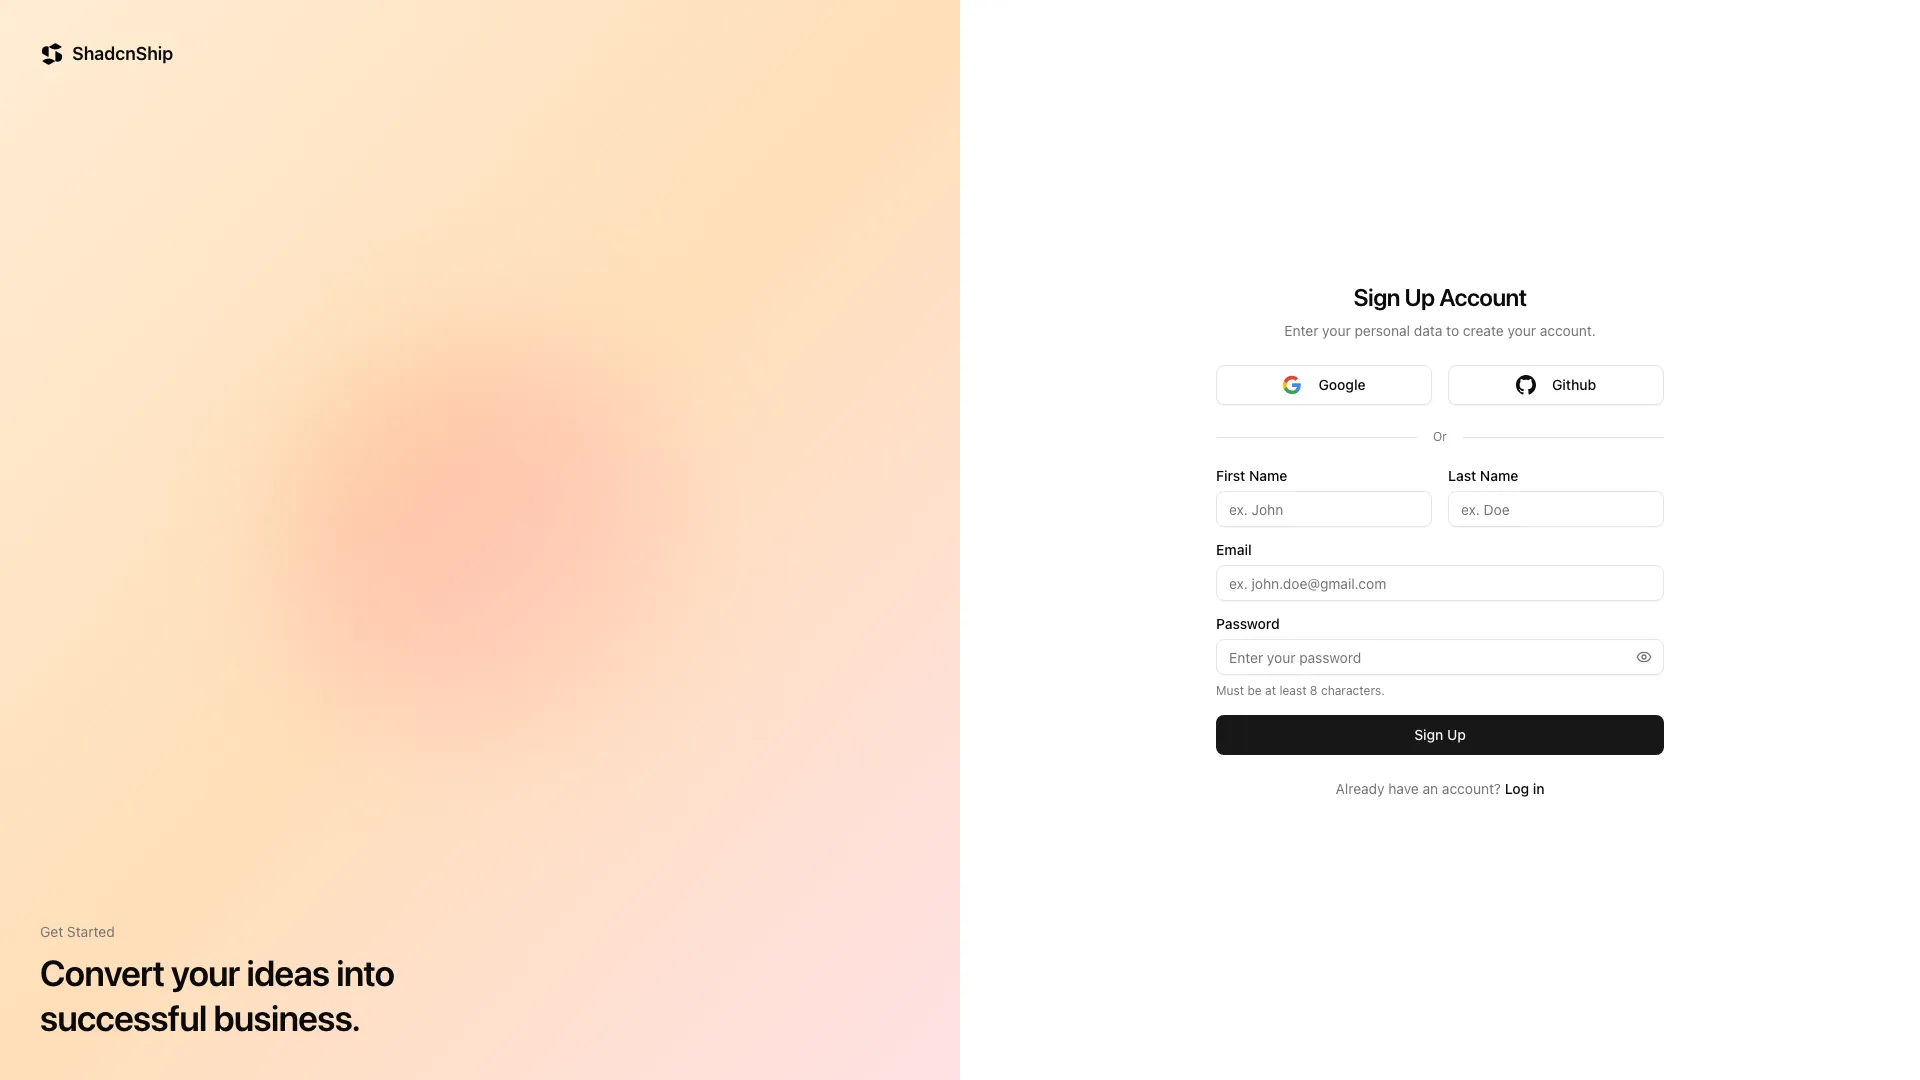
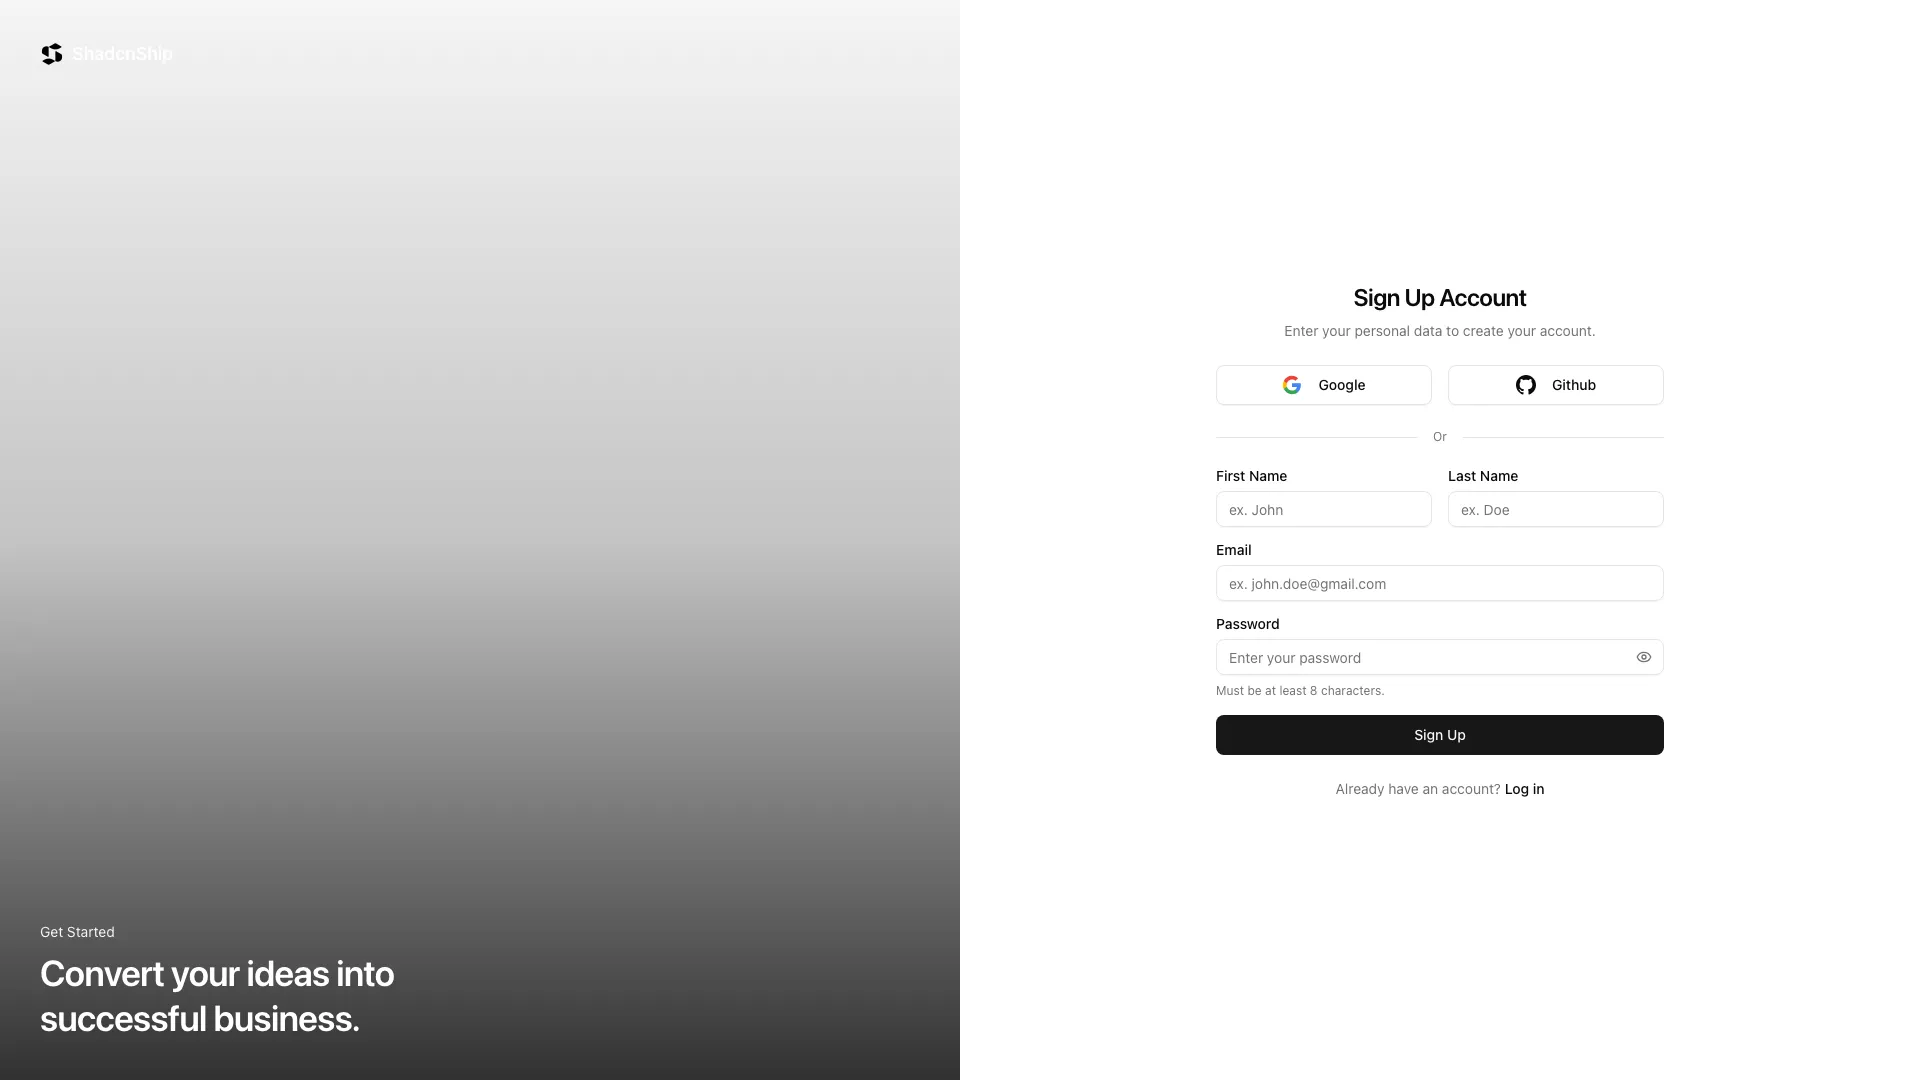
feat: add testimonial-02 & some fix

diff --git a/src/registry/blocks/testimonial-02/testimonial.tsx b/src/registry/blocks/testimonial-02/testimonial.tsx
@@ -1,0 +1,250 @@
+import { cn } from "@/lib/utils";
+import { Card, CardContent } from "@/components/ui/card";
+import { Avatar, AvatarFallback, AvatarImage } from "@/components/ui/avatar";
+import { Button } from "@/components/ui/button";
+import { Star } from "lucide-react";
+import { QuoteIcon } from "@/components/social-icons";
+
+interface Testimonial {
+  type: "text" | "image" | "cta";
+  image?: string;
+  title?: string;
+  content?: string;
+  author?: {
+    name: string;
+    avatar?: string;
+  };
+  rating?: number;
+  button?: { text: string; url: string };
+}
+
+interface Testimonial02Props {
+  tagline?: string;
+  heading?: string;
+  description?: string;
+  testimonials?: Testimonial[];
+  className?: string;
+}
+
+const StarRating = ({ rating = 5 }: { rating?: number }) => (
+  <div className="flex gap-0.5">
+    {Array.from({ length: rating }).map((_, i) => (
+      <Star key={i} className="size-3.5 fill-yellow-400 text-yellow-400" />
+    ))}
+  </div>
+);
+
+const TestimonialCard = ({ testimonial }: { testimonial: Testimonial }) => {
+  if (testimonial.type === "cta") {
+    return (
+      <Card className="bg-primary text-primary-foreground h-full shadow-none ">
+        <CardContent className="flex h-full flex-col p-6">
+          <h3 className="text-xl font-semibold">{testimonial.title}</h3>
+          <p className="mt-2 flex-1 text-sm opacity-90">
+            {testimonial.content}
+          </p>
+          <Button variant="secondary" className="mt-4 w-full" asChild>
+            <a href={testimonial.button?.url || "#"}>
+              {testimonial.button?.text}
+            </a>
+          </Button>
+        </CardContent>
+      </Card>
+    );
+  }
+
+  if (testimonial.type === "image") {
+    return (
+      <Card className="h-full shadow-none py-0">
+        <div className="aspect-3/4 w-full overflow-hidden rounded-xl bg-muted h-full">
+          {testimonial.image && (
+            <img
+              src={testimonial.image}
+              alt=""
+              className="size-full object-cover aspect-3/4 h-full"
+            />
+          )}
+        </div>
+      </Card>
+    );
+  }
+
+  return (
+    <Card className="h-full shadow-none p-4">
+      <CardContent className="flex h-full flex-col justify-between gap-12 p-0 ">
+        <div className="space-y-2">
+          <QuoteIcon className="size-4 dark:invert" />
+          {testimonial.title && (
+            <h4 className="text-2xl leading-tight">{testimonial.title}</h4>
+          )}
+        </div>
+        <div>
+          {testimonial.content && (
+            <p className="mt-3 flex-1  text-muted-foreground">
+              {testimonial.content}
+            </p>
+          )}
+          {testimonial.author && (
+            <div className="mt-4 flex items-center gap-3">
+              <Avatar className="size-8">
+                <AvatarImage
+                  src={testimonial.author.avatar}
+                  alt={testimonial.author.name}
+                  className="object-cover"
+                />
+                <AvatarFallback>
+                  {testimonial.author.name
+                    .split(" ")
+                    .map((n) => n[0])
+                    .join("")}
+                </AvatarFallback>
+              </Avatar>
+              <div className="flex flex-col gap-1">
+                <StarRating rating={testimonial.rating} />
+                <span className="text-sm font-medium text-muted-foreground">
+                  {testimonial.author.name}
+                </span>
+              </div>
+            </div>
+          )}
+        </div>
+      </CardContent>
+    </Card>
+  );
+};
+
+const Testimonial02 = ({
+  tagline = "Testimonials",
+  heading = "Wall of Love",
+  description = "See what our customers are saying about their experience with our product.",
+  testimonials = [
+    {
+      type: "image",
+      //image: "https://images.pexels.com/photos/3822583/pexels-photo-3822583.jpeg",
+    },
+    {
+      type: "text",
+      title: "Game Changer for Our Team!",
+      content:
+        "Daily support, tailored insights-Halse revolutionized my well-being. A most-have for a healthier life!",
+      author: {
+        name: "Emma Thompson",
+        avatar:
+          "https://images.pexels.com/photos/3822583/pexels-photo-3822583.jpeg",
+      },
+      rating: 5,
+    },
+    {
+      type: "image",
+      //  image: "https://images.pexels.com/photos/3822583/pexels-photo-3822583.jpeg",
+    },
+    {
+      type: "text",
+      title: "Incredible Support!",
+      content:
+        "The customer support team is exceptional. They helped us get set up quickly and answered all our questions.",
+      author: {
+        name: "Emily Johnson",
+        avatar:
+          "https://images.pexels.com/photos/3822583/pexels-photo-3822583.jpeg",
+      },
+      rating: 5,
+    },
+    {
+      type: "text",
+      title: "Streamlined Our Workflow!",
+      content:
+        "From day one, this tool has made our processes smoother. A game-changer for productivity.",
+      author: {
+        name: "Alex Rodriguez",
+        avatar:
+          "https://images.pexels.com/photos/3822583/pexels-photo-3822583.jpeg",
+      },
+      rating: 5,
+    },
+    {
+      type: "image",
+      // image:  "https://images.pexels.com/photos/3822583/pexels-photo-3822583.jpeg",
+    },
+    {
+      type: "text",
+      title: "Best Decision We Made!",
+      content:
+        "Switching to this platform was the best decision for our business. Highly recommend!",
+      author: {
+        name: "Ryan Carter",
+        avatar:
+          "https://images.pexels.com/photos/3822583/pexels-photo-3822583.jpeg",
+      },
+      rating: 5,
+    },
+    {
+      type: "image",
+      // image: "https://images.pexels.com/photos/3822583/pexels-photo-3822583.jpeg",
+    },
+    {
+      type: "cta",
+      title: "Join Our Community",
+      content:
+        "Join thousands of happy customers who have transformed their workflow with our product.",
+      button: {
+        url: "#",
+        text: "Get Started",
+      },
+    },
+    {
+      type: "text",
+      title: "Exceeded Expectations!",
+      content:
+        "We expected good, but got amazing. The features are exactly what we needed.",
+      author: {
+        name: "Jasmine Lee",
+        avatar:
+          "https://images.pexels.com/photos/3822583/pexels-photo-3822583.jpeg",
+      },
+      rating: 5,
+    },
+    {
+      type: "image",
+      // image:        "https://images.pexels.com/photos/3822583/pexels-photo-3822583.jpeg",
+    },
+    {
+      type: "text",
+      title: "Exceeded Expectations!",
+      content:
+        "We expected good, but got amazing. The features are exactly what we needed.",
+      author: {
+        name: "Jasmine Lee",
+        avatar:
+          "https://images.pexels.com/photos/3822583/pexels-photo-3822583.jpeg",
+      },
+      rating: 5,
+    },
+  ],
+  className,
+}: Testimonial02Props) => {
+  return (
+    <section
+      className={cn(
+        "container mx-auto px-6 py-12 md:py-24 lg:min-w-6xl",
+        className,
+      )}
+    >
+      <div className="mx-auto max-w-2xl text-center">
+        <p className="text-sm font-medium">{tagline}</p>
+        <h2 className="mt-2 text-4xl font-semibold tracking-tight md:text-5xl">
+          {heading}
+        </h2>
+        <p className="mt-4 text-muted-foreground">{description}</p>
+      </div>
+      <div className="mt-12 grid gap-4 md:grid-cols-2 lg:grid-cols-4">
+        {/*ctaCard && <CTACardComponent cta={ctaCard} />*/}
+        {testimonials.map((testimonial, index) => (
+          <TestimonialCard testimonial={testimonial} key={index} />
+        ))}
+      </div>
+    </section>
+  );
+};
+
+export { Testimonial02 };

diff --git a/src/lib/registry.ts b/src/lib/registry.ts
@@ -43,25 +43,33 @@ function transformToBlock(item: RegistryJsonItem): RegistryBlock {
     dependencies: item.dependencies,
     registryDependencies: item.registryDependencies,
     // Use meta.image if available, otherwise fallback to standard preview path
-    image: (item.meta?.image as string | undefined) || `/r/previews/${item.name}.webp`,
+    image:
+      (item.meta?.image as string | undefined) ||
+      `/r/previews/${item.name}.webp`,
     // Lazy load the component based on block name convention
     component: React.lazy(() =>
       import(`@/registry/blocks/${item.name}/${componentName}`).then((mod) => ({
         // Try to find the exported component (PascalCase version of name or default)
         default: mod.default || mod[Object.keys(mod)[0]],
-      }))
+      })),
     ),
   };
 }
 
-// Transform all registry items to blocks (excluding backgrounds)
+// Transform all registry items to blocks (excluding backgrounds and other categories)
+const excludedCategories = ["background", "social-icons"]; // Add more categories here to exclude
 const blocks: RegistryBlock[] = registryData.items
-  .filter((item) => !item.categories?.includes("background"))
+  .filter((item) => {
+    const categories = item.categories as string[] | undefined;
+    return !categories?.some((cat) => excludedCategories.includes(cat));
+  })
   .map(transformToBlock);
 
 // Transform background items separately
 const backgroundBlocks: RegistryBlock[] = registryData.items
-  .filter((item) => item.categories?.includes("background"))
+  .filter((item) =>
+    (item.categories as string[] | undefined)?.includes("background"),
+  )
   .map(transformToBlock);
 
 /**
@@ -83,7 +91,7 @@ export function getBlock(name: string): RegistryBlock | undefined {
  */
 export function getBlocksByCategory(categoryName: string): RegistryBlock[] {
   return blocks.filter((block) =>
-    block.categories.some((cat) => cat.name === categoryName)
+    block.categories.some((cat) => cat.name === categoryName),
   );
 }
 
@@ -102,7 +110,7 @@ export function getCategories(): BlockCategory[] {
   });
 
   return Array.from(categoryMap.values()).sort((a, b) =>
-    a.title.localeCompare(b.title)
+    a.title.localeCompare(b.title),
   );
 }
 
@@ -125,8 +133,10 @@ export function getBackgroundBlock(name: string): RegistryBlock | undefined {
  * Used for preview pages that need to handle both types
  */
 export function getAnyBlock(name: string): RegistryBlock | undefined {
-  return blocks.find((block) => block.name === name) ||
-    backgroundBlocks.find((block) => block.name === name);
+  return (
+    blocks.find((block) => block.name === name) ||
+    backgroundBlocks.find((block) => block.name === name)
+  );
 }
 
 /**

diff --git a/src/registry/blocks/login-01/login.tsx b/src/registry/blocks/login-01/login.tsx
@@ -69,6 +69,7 @@ const FormField = ({
 interface Login01Props {
   logo?: React.ReactNode;
   logoText?: string;
+  img?: string;
   tagline?: string;
   heading?: string;
   subheading?: string;
@@ -79,8 +80,9 @@ interface Login01Props {
 }
 
 const Login01 = ({
-  logo = <LogoIcon className="size-6" />,
+  logo = <LogoIcon className="size-6 dark:invert" />,
   logoText = "ShadcnShip",
+  img,
   tagline = "Convert your ideas into successful business.",
   heading = "Sign Up Account",
   subheading = "Get Started",
@@ -116,16 +118,25 @@ const Login01 = ({
         <div
           className={cn(
             "relative hidden lg:flex flex-col justify-between p-10 overflow-hidden",
-            "bg-linear-to-br from-orange-100 via-orange-200/80 to-rose-200/60 dark:text-background",
+            "bg-accent text-white",
           )}
         >
-          <div className="absolute top-1/2 left-1/2 -translate-x-1/2 -translate-y-1/2 w-96 h-96 rounded-full blur-3xl bg-linear-to-br from-orange-300/60 via-rose-300/40 to-orange-200/50" />
+          {img && (
+            <img
+              src={img}
+              alt="img"
+              className="absolute top-1/2 left-1/2 -translate-x-1/2 -translate-y-1/2"
+            ></img>
+          )}
+          <div className="absolute inset-0 bg-linear-to-t from-black/80 via-black/20 to-transparent" />
           <div className="relative z-10 flex items-center gap-2">
             {logo}
             <span className="text-lg font-semibold">{logoText}</span>
           </div>
           <div className="relative z-10 max-w-md">
-            <p className="text-sm text-muted-foreground mb-2">{subheading}</p>
+            <p className="text-sm text-muted mb-2 dark:text-muted-foreground">
+              {subheading}
+            </p>
             <h2 className="text-3xl md:text-4xl font-semibold tracking-tight leading-tight">
               {tagline}
             </h2>

diff --git a/src/registry/blocks/social-icons/icons.tsx b/src/registry/blocks/social-icons/icons.tsx
@@ -82,6 +82,19 @@ const MicrosoftIcon = ({ className }: IconProps) => (
     <path d="M0 0h11.377v11.372H0zm12.623 0H24v11.372H12.623zM0 12.623h11.377V24H0zm12.623 0H24V24H12.623" />
   </svg>
 );
+const QuoteIcon = ({ className }: IconProps) => (
+  <svg className={className} viewBox="0 0 24 24" fill="#currentColor">
+    <g id="SVGRepo_bgCarrier" stroke-width="0"></g>
+    <g
+      id="SVGRepo_tracerCarrier"
+      stroke-linecap="round"
+      stroke-linejoin="round"
+    ></g>
+    <g id="SVGRepo_iconCarrier">
+      <path d="m21.95 8.721-.025-.168-.026.006A4.5 4.5 0 1 0 17.5 14c.223 0 .437-.034.65-.065-.069.232-.14.468-.254.68-.114.308-.292.575-.469.844-.148.291-.409.488-.601.737-.201.242-.475.403-.692.604-.213.21-.492.315-.714.463-.232.133-.434.28-.65.35l-.539.222-.474.197.484 1.939.597-.144c.191-.048.424-.104.689-.171.271-.05.56-.187.882-.312.317-.143.686-.238 1.028-.467.344-.218.741-.4 1.091-.692.339-.301.748-.562 1.05-.944.33-.358.656-.734.909-1.162.293-.408.492-.856.702-1.299.19-.443.343-.896.468-1.336.237-.882.343-1.72.384-2.437.034-.718.014-1.315-.028-1.747a7.028 7.028 0 0 0-.063-.539zm-11 0-.025-.168-.026.006A4.5 4.5 0 1 0 6.5 14c.223 0 .437-.034.65-.065-.069.232-.14.468-.254.68-.114.308-.292.575-.469.844-.148.291-.409.488-.601.737-.201.242-.475.403-.692.604-.213.21-.492.315-.714.463-.232.133-.434.28-.65.35l-.539.222c-.301.123-.473.195-.473.195l.484 1.939.597-.144c.191-.048.424-.104.689-.171.271-.05.56-.187.882-.312.317-.143.686-.238 1.028-.467.344-.218.741-.4 1.091-.692.339-.301.748-.562 1.05-.944.33-.358.656-.734.909-1.162.293-.408.492-.856.702-1.299.19-.443.343-.896.468-1.336.237-.882.343-1.72.384-2.437.034-.718.014-1.315-.028-1.747a7.571 7.571 0 0 0-.064-.537z"></path>
+    </g>
+  </svg>
+);
 
 const LogoIcon = ({ className }: IconProps) => (
   <img
@@ -101,5 +114,6 @@ export {
   DiscordIcon,
   SlackIcon,
   MicrosoftIcon,
+  QuoteIcon,
   LogoIcon,
 };
